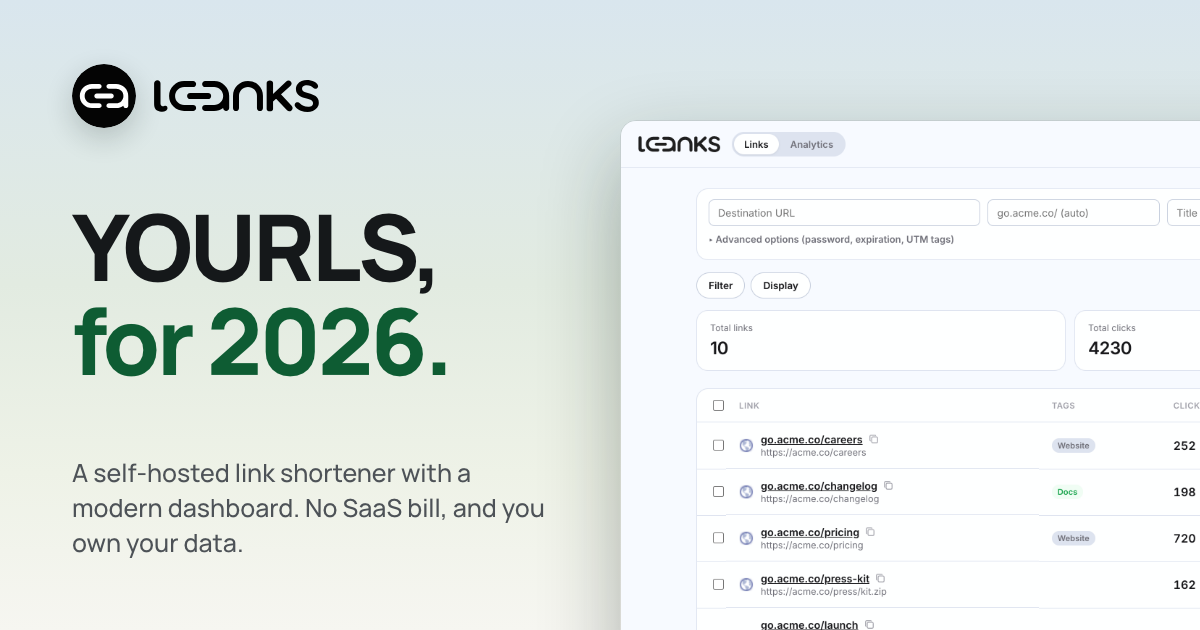
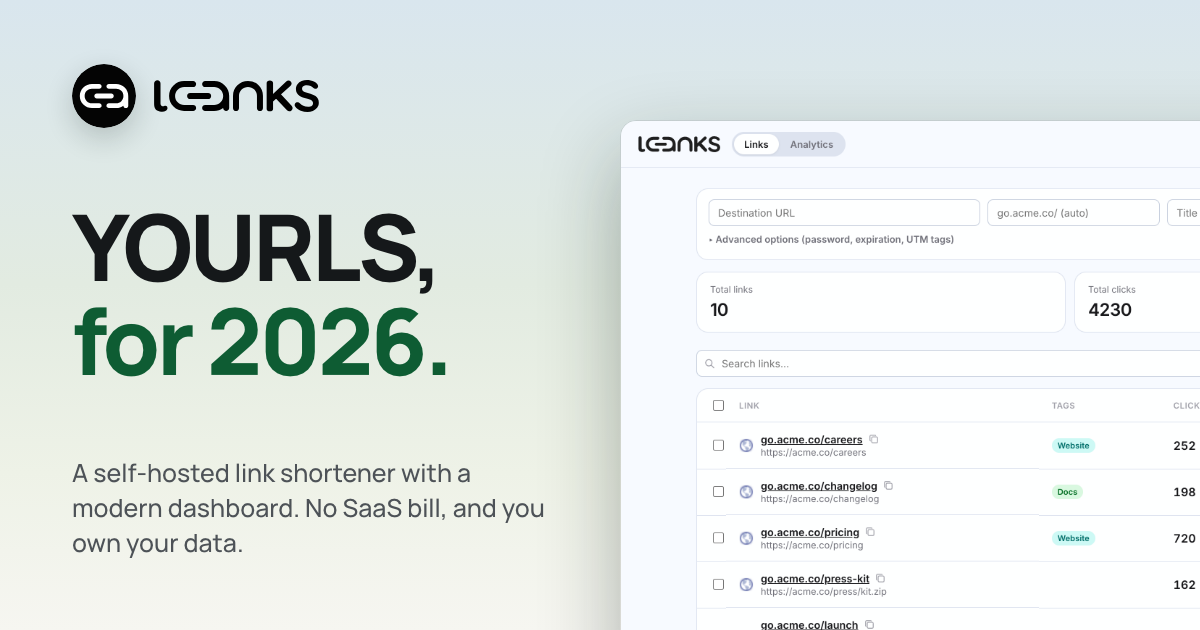
Update landing page for v1.4.1
Bump the version chip, refresh the screenshots and social preview image for
the reworked links toolbar and tag colors, and update the Tags and links-list
feature cards to match.

diff --git a/web/index.html b/web/index.html
@@ -33,7 +33,7 @@
       <div class="brand">
         <span class="mark"><img src="assets/logomark.svg" alt="" width="52" height="52"></span>
         <h1><img class="logotype" src="assets/logotype.svg" alt="Leanks" width="153" height="30"></h1>
-        <span class="version">v1.4.0</span>
+        <span class="version">v1.4.1</span>
       </div>
 
       <p class="tagline">YOURLS, <em>for 2026.</em></p>
@@ -74,7 +74,7 @@
       <figure>
         <picture>
           <source srcset="assets/dashboard-dark.png" media="(prefers-color-scheme: dark)">
-          <img src="assets/dashboard.png" width="2480" height="1560" alt="The Leanks dashboard: a one-line create form, filters and search, totals, and a list of short links with tags, click counts, creation dates and QR / stats / edit / delete actions">
+          <img src="assets/dashboard.png" width="2480" height="1560" alt="The Leanks dashboard: a one-line create form, totals, a search bar with a Display menu, and a list of short links with tags, click counts, creation dates and QR / stats / edit / delete actions">
         </picture>
         <figcaption>The Leanks dashboard — a link list, not a plugin admin screen.</figcaption>
       </figure>
@@ -113,12 +113,12 @@
           <div class="feat-card">
             <span class="ic"><svg viewBox="0 0 24 24" fill="none" stroke="currentColor" stroke-width="1.6" stroke-linecap="round" stroke-linejoin="round"><path d="M5 9h14M5 15h14M10 4 8 20M16 4l-2 16"/></svg></span>
             <h3>Tags</h3>
-            <p>Colored tags you can assign to links, show as a column, and filter by.</p>
+            <p>Tags in 8 colors you can assign to links, show as a column, and filter by.</p>
           </div>
           <div class="feat-card">
             <span class="ic"><svg viewBox="0 0 24 24" fill="none" stroke="currentColor" stroke-width="1.6" stroke-linecap="round" stroke-linejoin="round"><path d="M8 6h12M8 12h12M8 18h12M4 6h.01M4 12h.01M4 18h.01"/></svg></span>
             <h3>A list that scales</h3>
-            <p>Sort by clicks or date, search, bulk-delete, favicons on every link, and a remembered page size.</p>
+            <p>One Display menu for tag filters, rows or cards, ordering, page size and columns. Plus search, bulk delete and favicons.</p>
           </div>
           <div class="feat-card">
             <span class="ic"><svg viewBox="0 0 24 24" fill="none" stroke="currentColor" stroke-width="1.6" stroke-linecap="round" stroke-linejoin="round"><rect x="3" y="3" width="7" height="7" rx="1"/><rect x="14" y="3" width="7" height="7" rx="1"/><rect x="3" y="14" width="7" height="7" rx="1"/><path d="M14 14h3v3h-3v-3ZM19 14h2M14 19h2M19 19h2"/></svg></span>
